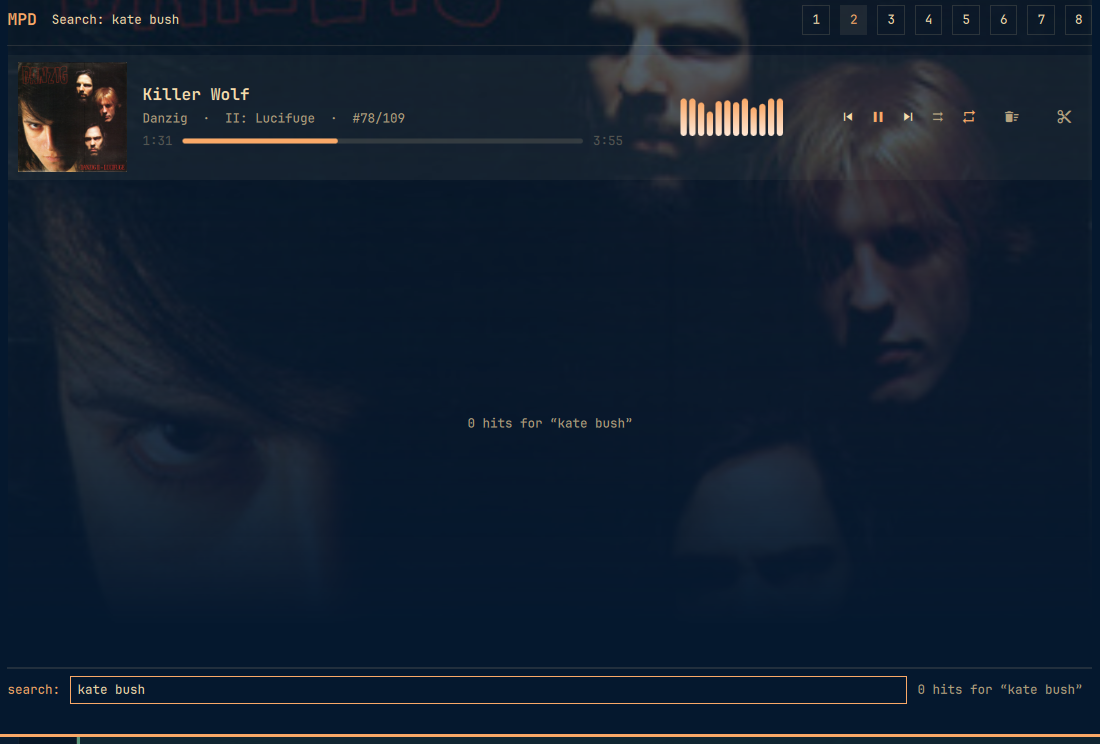
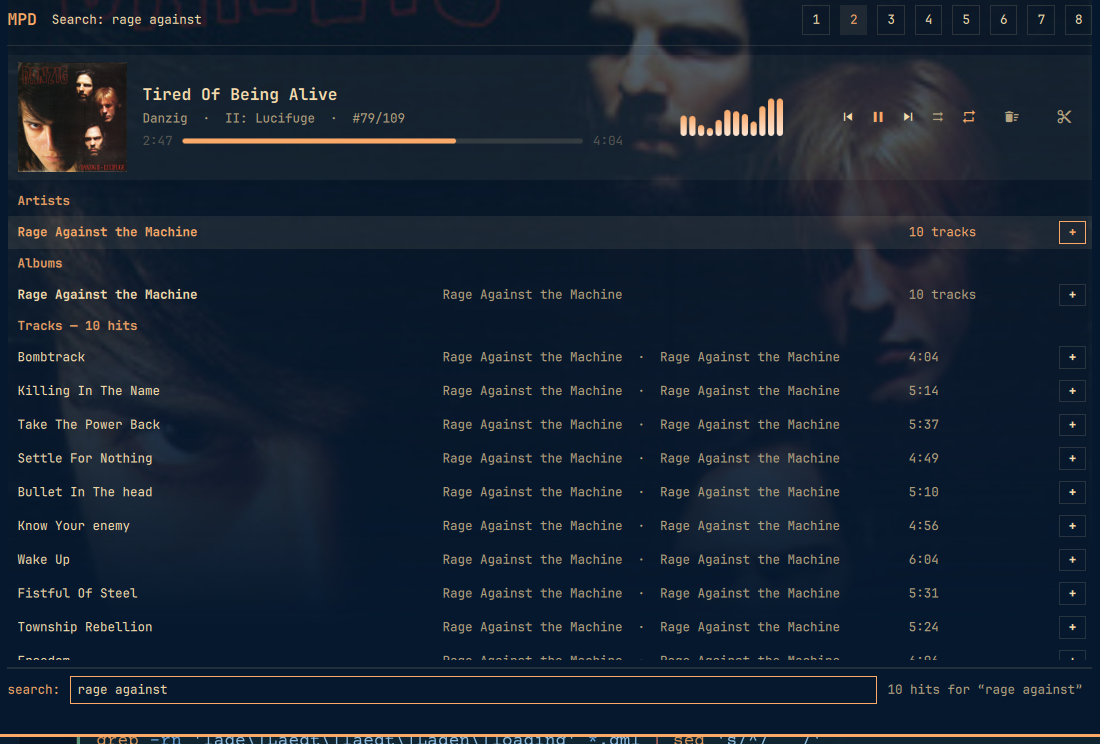
Fix the search presentation and two more German strings
Reported after the English switch: an empty search result looked odd, and the
README's first image showed the card instead of the player.

- an empty search now says "no hits for “x” — try fewer words" instead of a bare
  "0 hits". The live path was checked over the keyboard, not the IPC debug command:
  the frame stays on the search view, only the info line changes.
- two more strings only visible at runtime: "lade …" (twice, the loading state --
  it was even in the first version of the search screenshot) and "nichts geladen"
  in the bar label.
- four more that a word-list sweep had missed: "angehängt: ", the prompt hint
  "tippen · enter bestätigen · esc abbrechen", the rename feedback and the
  "searches while you type" line. A grep for umlauts and for German word stems is
  more reliable than my filtered detector -- it reported zero and was wrong.
- README: the player is the first image now (the card moved into the views), and
  the search screenshot shows a search that finds something: "rage against" ->
  10 hits, grouped as "Artists / Rage Against the Machine / 10 tracks".

Measured on the running panel: typed "rage" -> search frame, 62 rows,
'29 hits for “rage”'; typed "zzqx" -> search frame, 0 rows, the new message.

diff --git a/Panel.qml b/Panel.qml
@@ -309,7 +309,9 @@ Panel {
   function infoFor(mode, f, list) {
     var n = (list || []).length
     if (mode === "queue") return n + " entries"
-    if (mode === "search") return n + (n >= 800 ? "+" : "") + " hits for “" + String(f.term || "") + "”"
+    if (mode === "search") return n === 0
+      ? "no hits for “" + String(f.term || "") + "” — try fewer words"
+      : n + (n >= 800 ? "+" : "") + " hits for “" + String(f.term || "") + "”"
     if (mode === "list") return n + " entries"
     if (mode === "find") return n + " tracks"
     if (mode === "files") return String(f.path || "") === "" ? "Library — " + n + " entries" : String(f.path) + " — " + n
@@ -717,7 +719,7 @@ Panel {
       what = root.rowTitle(row)
     }
 
-    if (what !== "") root.flash("angehängt: " + what)
+    if (what !== "") root.flash("appended: " + what)
   }
 
   function addAll() {
@@ -809,7 +811,7 @@ Panel {
         + " · ↓/↑ enters the list · enter shows them · esc back"
     if (root.promptMode === "filter")
       return "type to filter this list · ↓/↑ enters the list · ctrl+u clears · esc shows all"
-    if (root.promptMode !== "") return "tippen · enter bestätigen · esc abbrechen"
+    if (root.promptMode !== "") return "type · enter confirms · esc cancels"
     var mode = root.frameMode
     if (mode === "queue") return "enter plays · a appends · d removes · D clears · C keeps only the playing track"
     if (mode === "search") return "/ to type · enter opens · a appends · A all hits · h/esc back"
@@ -1043,7 +1045,7 @@ Panel {
       var from = row ? String(row.playlist || "") : ""
       if (text === "" || from === "" || !root.up) return
       mutateAndReload("renameplaylist", { name: from, to: text })
-      root.setInfo("„" + from + "“ heißt jetzt „" + text + "”")
+      root.setInfo("“" + from + "” is now “" + text + "”")
       root.closePrompt()
       return
     }
@@ -1634,9 +1636,9 @@ Panel {
         horizontalAlignment: Text.AlignHCenter
         elide: Text.ElideRight
         text: {
-          if (root.loading) return "lade …"
+          if (root.loading) return "loading …"
           if (!root.up) return "no connection to MPD"
-          if (root.frameMode === "search" && String(root.frame.term || "").trim() === "") return "tippen — gesucht wird, während du schreibst"
+          if (root.frameMode === "search" && String(root.frame.term || "").trim() === "") return "type — it searches while you type"
           if (root.frameMode === "queue") return "queue is empty — a appends the selected track"
           if (root.frameMode === "playlists") return "no saved playlists — s saves the queue"
           return root.infoText
@@ -1675,7 +1677,7 @@ Panel {
         Text {
           anchors.centerIn: parent
           visible: root.detailLoading
-          text: "lade …"
+          text: "loading …"
           color: root.dim
           font.family: root.fontFamily
           font.pixelSize: Style.font.caption

diff --git a/BarWidget.qml b/BarWidget.qml
@@ -1068,13 +1068,13 @@ Panel {
 
     // Both halves of the track-change feedback, on demand.
     function osd(): string {
-      if (!root.hasSong) return "nichts geladen"
+      if (!root.hasSong) return "nothing playing"
       root.showOsd(false)
       return "ok"
     }
 
     function notify(): string {
-      if (!root.hasSong) return "nichts geladen"
+      if (!root.hasSong) return "nothing playing"
       root.notifyTrackChange()
       return "ok"
     }

diff --git a/NOTICE.md b/NOTICE.md
@@ -6,13 +6,13 @@ file `bin/omajam-mpd`, MIT licence, Copyright (c) 2026 Nathan Ollerenshaw
 
 Changed compared to the original:
 
-* Docstring um diesen Herkunftshinweis ergänzt.
-* Cache-Verzeichnis `~/.cache/omajam` → `~/.cache/kokko-mpd`.
-* Zwei Kommandos ergänzt: `playlistdelete {name,pos}` und `playlistclear {name}` —
-  einen einzelnen Titel aus einer gespeicherten Playlist entfernen bzw. sie leeren
-  (MPD kennt die dafür, das Original hatte sie nicht angebunden).
-* Aufrufer ist dieses Plugins `BarWidget.qml` statt des Shell-Plugin-Service.
+* Docstring extended by this origin note.
+* Cache directory `~/.cache/omajam` → `~/.cache/kokko-mpd`.
+* Two commands added: `playlistdelete {name,pos}` and `playlistclear {name}` —
+  removing a single track from a saved playlist, or emptying it (MPD knows these,
+  the original never wired them up).
+* The caller is this plugin's `BarWidget.qml` instead of the shell plugin service.
 
-`Format.js` ist ebenfalls aus omajam übernommen (unverändert, MIT, gleicher Rechteinhaber).
+`Format.js` is taken from omajam as well (unchanged, MIT, same copyright holder).
 
-Alles andere (`BarWidget.qml`, `Panel.qml`, `manifest.json`) ist eigenständig.
+Everything else (`BarWidget.qml`, `Panel.qml`, `manifest.json`) is original work.

diff --git a/README.md b/README.md
@@ -4,7 +4,7 @@
 click opens the whole player: queue, search, library, playlists. Everything works
 with the mouse; the keys are a bonus.
 
-![Bar with card](docs/karte.png)
+![The player](docs/panel-queue.png)
 
 ## What it does
 
@@ -47,6 +47,11 @@ On first start it connects to MPD on `127.0.0.1:6600` (changeable in the plugin
 settings). Panel toggle: **`SUPER + CTRL + M`**.
 
 ## The views
+
+**In the bar, and on hover.** The label with cover and transport, and the card that
+appears when you point at the bar.
+
+![Bar and card](docs/karte.png)
 
 **Queue — the player.** The band on top: cover, progress, spectrum, one controller.
 Below it the queue, at the bottom what is happening and what the keys do. When it
